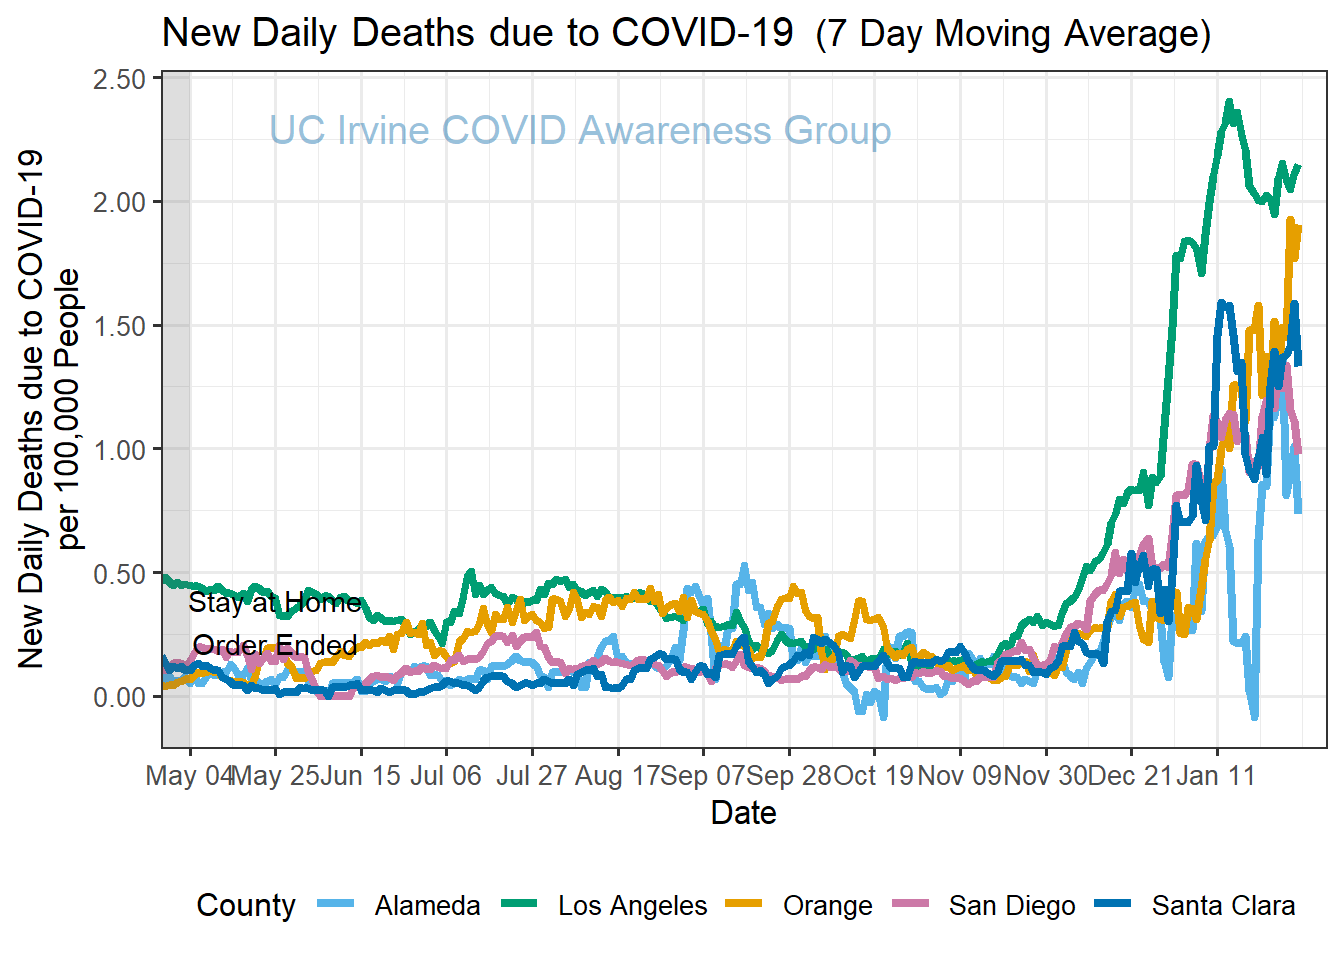
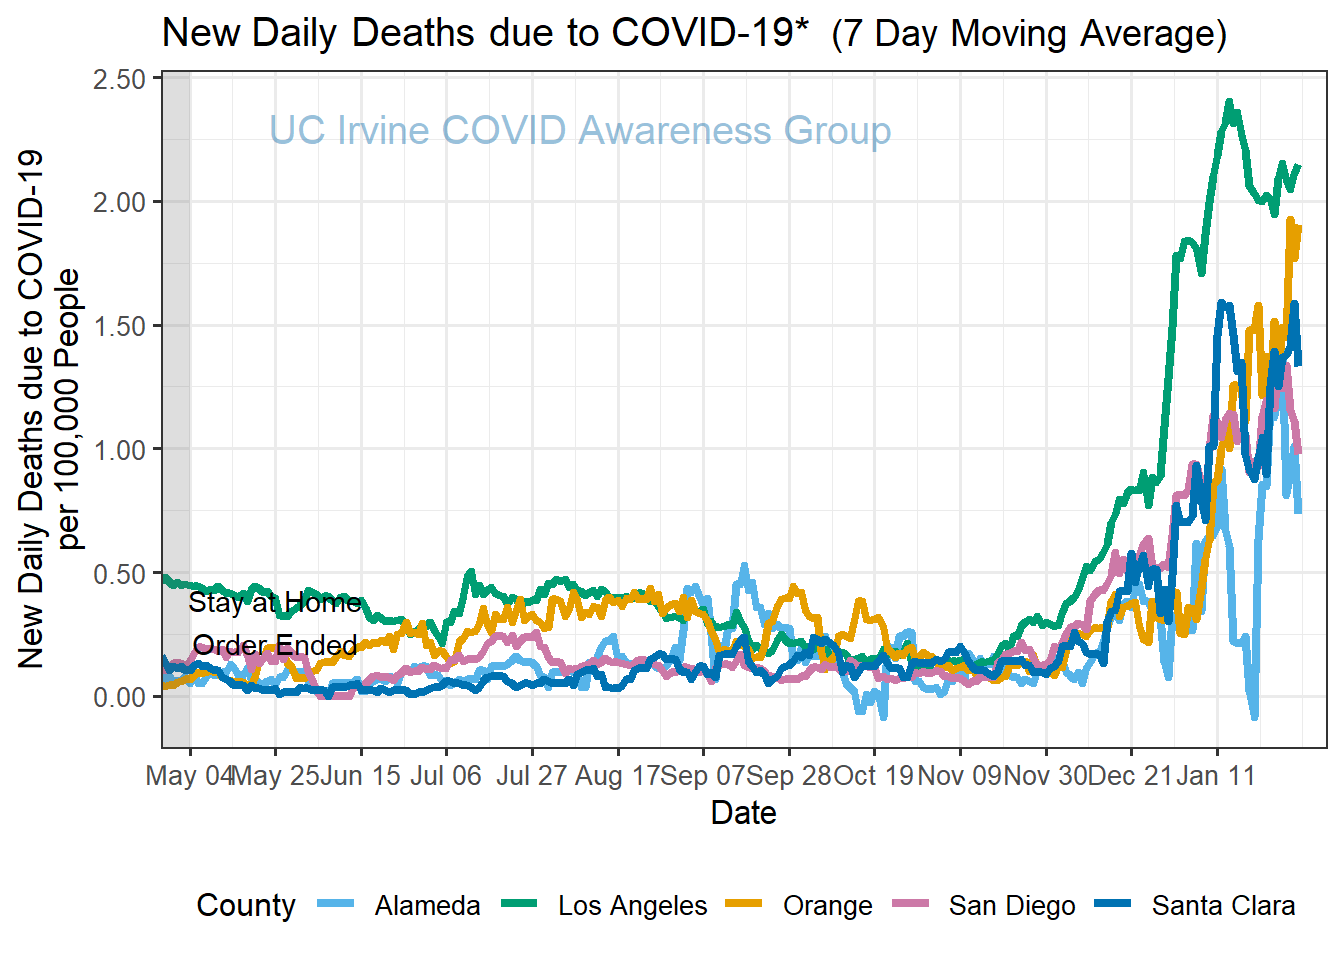
added asterisk

Changed region(s): [[0.5938, 0.0, 0.9062, 0.0625]]

diff --git a/docs/index.html b/docs/index.html
@@ -510,16 +510,16 @@ This reproducible <a href="http://rmarkdown.rstudio.com">R Markdown</a> analysis
 <div class="panel panel-default">
 <div class="panel-heading">
 <p class="panel-title">
-<a data-toggle="collapse" data-parent="#workflowr-checks" href="#strongRepositoryversionstrongahrefhttpsgithubcomdamonbayerucicovid19dashboardtree1e58c04798ad31e183b779751f2f1dea393d1478targetblank1e58c04a"> <span class="glyphicon glyphicon-ok text-success" aria-hidden="true"></span> <strong>Repository version:</strong> <a href="https://github.com/damonbayer/uci_covid19_dashboard/tree/1e58c04798ad31e183b779751f2f1dea393d1478" target="_blank">1e58c04</a> </a>
+<a data-toggle="collapse" data-parent="#workflowr-checks" href="#strongRepositoryversionstrongahrefhttpsgithubcomdamonbayerucicovid19dashboardtreeb9e541ca9384b332f0abed542aec48cda4882036targetblankb9e541ca"> <span class="glyphicon glyphicon-ok text-success" aria-hidden="true"></span> <strong>Repository version:</strong> <a href="https://github.com/damonbayer/uci_covid19_dashboard/tree/b9e541ca9384b332f0abed542aec48cda4882036" target="_blank">b9e541c</a> </a>
 </p>
 </div>
[2 lines of base64/hex data omitted]
 <div class="panel-body">
 <p>
 Great! You are using Git for version control. Tracking code development and connecting the code version to the results is critical for reproducibility.
 </p>
 <p>
-The results in this page were generated with repository version <a href="https://github.com/damonbayer/uci_covid19_dashboard/tree/1e58c04798ad31e183b779751f2f1dea393d1478" target="_blank">1e58c04</a>. See the <em>Past versions</em> tab to see a history of the changes made to the R Markdown and HTML files.
+The results in this page were generated with repository version <a href="https://github.com/damonbayer/uci_covid19_dashboard/tree/b9e541ca9384b332f0abed542aec48cda4882036" target="_blank">b9e541c</a>. See the <em>Past versions</em> tab to see a history of the changes made to the R Markdown and HTML files.
 </p>
 <p>
 Note that you need to be careful to ensure that all relevant files for the analysis have been committed to Git prior to generating the results (you can use <code>wflow_publish</code> or <code>wflow_git_commit</code>). workflowr only checks the R Markdown file, but you know if there are other scripts or data files that it depends on. Below is the status of the Git repository when the results were generated:
@@ -532,6 +532,7 @@ Ignored files:
 
 Unstaged changes:
     Modified:   analysis/index.Rmd
+    Modified:   code/functions.R
 
 </code></pre>
 <p>
@@ -570,6 +571,40 @@ Message
 </tr>
 </thead>
 <tbody>
+<tr>
+<td>
+Rmd
+</td>
+<td>
+<a href="https://github.com/damonbayer/uci_covid19_dashboard/blob/b9e541ca9384b332f0abed542aec48cda4882036/analysis/index.Rmd" target="_blank">b9e541c</a>
+</td>
+<td>
+igoldsteinh
+</td>
+<td>
+2021-02-01
+</td>
+<td>
+added note on negative deaths
+</td>
+</tr>
+<tr>
+<td>
+html
+</td>
+<td>
+<a href="https://rawcdn.githack.com/damonbayer/uci_covid19_dashboard/b9e541ca9384b332f0abed542aec48cda4882036/docs/index.html" target="_blank">b9e541c</a>
+</td>
+<td>
+igoldsteinh
+</td>
+<td>
+2021-02-01
+</td>
+<td>
+added note on negative deaths
+</td>
+</tr>
 <tr>
 <td>
 html
@@ -5515,7 +5550,7 @@ Start workflowr project.
 <p><img src="figure/index.Rmd/deaths_plot-1.png" width="672" style="display: block; margin: auto;" /></p>
 </div>
 </div>
-<p>Note that if deaths have been incorrectly reported in the past, current counts will be artificially decreased to account for the error. This may lead to negative deaths being reported.</p>
+<p>*Note that if deaths have been incorrectly reported in the past, current counts will be artificially decreased to account for the error. This may lead to negative deaths being reported.</p>
 <p>Data collected from the <a href="https://data.ca.gov/group/covid-19">California Open Data Portal</a>.</p>
 <p>Last updated on 2021-02-01.</p>
 <p>Last available date in the <a href="https://data.ca.gov/group/covid-19">California Open Data Portal</a> is 2021-01-31.</p>
